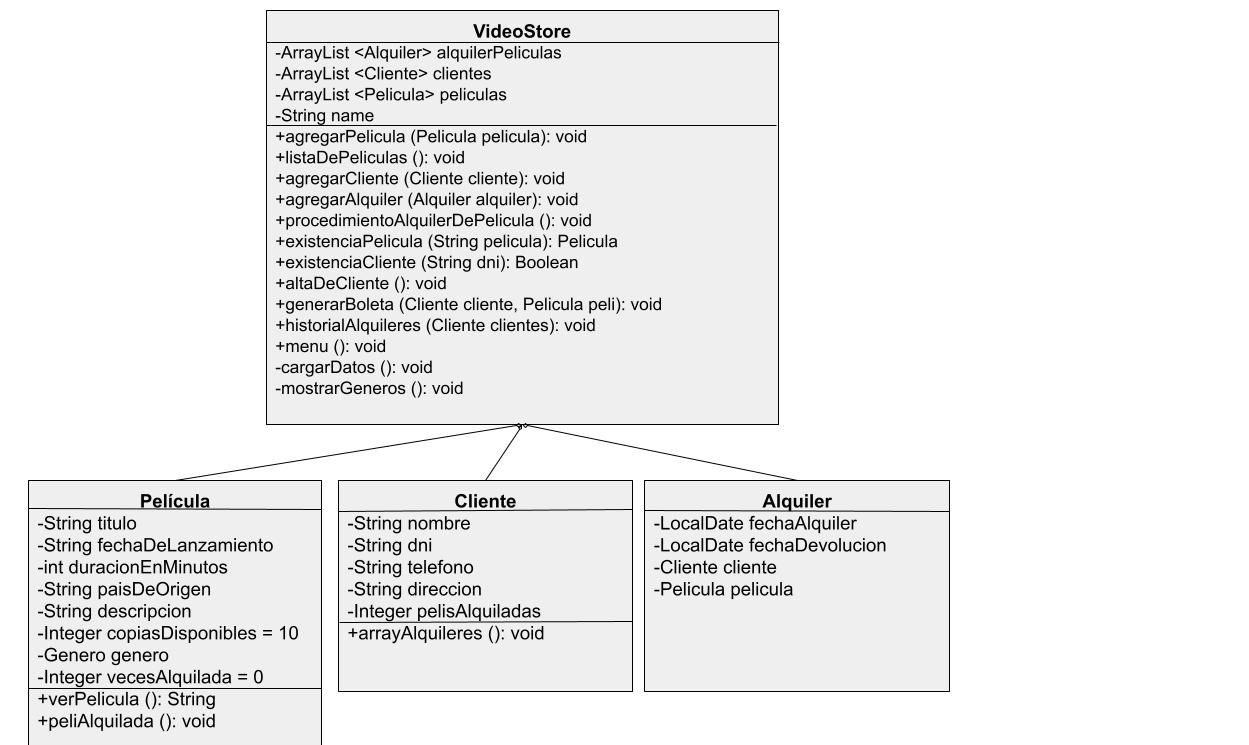
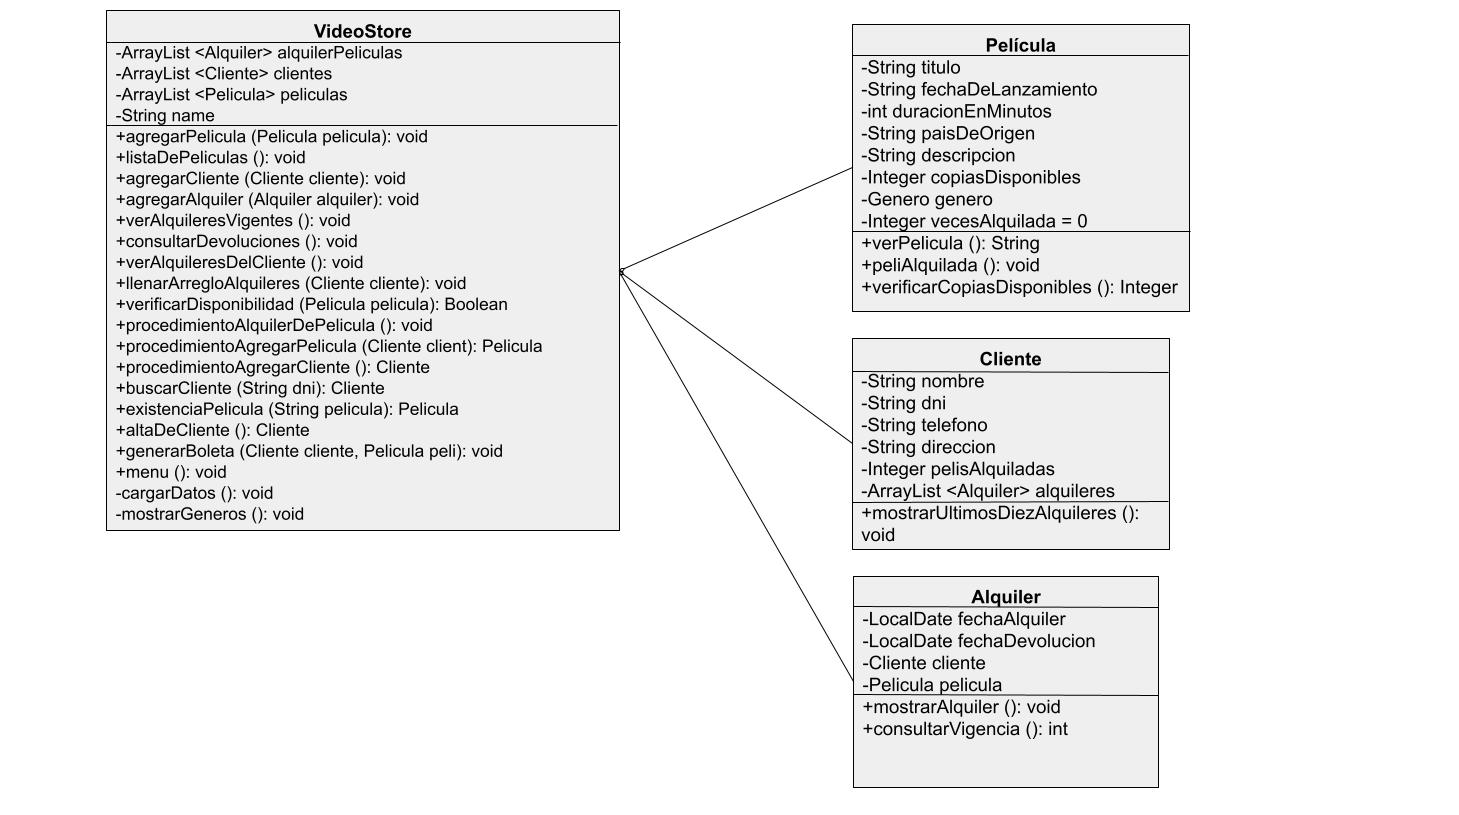
menu-uml

diff --git a/src/Core/VideoStore.java b/src/Core/VideoStore.java
@@ -92,7 +92,8 @@ public class VideoStore {
         }
     }
     
-    public void verAlquileresDelCliente (String dni){
+    public void verAlquileresDelCliente (){
+        String dni = JOptionPane.showInputDialog("Ingrese el DNI del cliente");
         Cliente cliente = buscarCliente(dni);
         if(cliente == null){
             System.out.println("No existe el cliente");
@@ -216,7 +217,7 @@ public class VideoStore {
       System.out.println("Fecha alquiler: "+formatter.format(alquiler.getFechaAlquiler())+"\n" // obtiene la fecha de alquiler
       + "Fecha devolución: "+formatter.format(alquiler.getFechaDevolucion())); // fecha de la devolucion
    }
-   
+  
    public void menu (){
       int menu;
       JOptionPane.showMessageDialog(null, """
@@ -226,16 +227,17 @@ public class VideoStore {
                                           2. Alquilar pelicula
                                           3. Ver alquileres vigentes 
                                           4. Consultar devoluciones
-                                          5. Consultar historial de un cliente""");
+                                          5. Consultar historial de un cliente
+                                          6. Ver generos""");
 
       menu = Integer.parseInt(JOptionPane.showInputDialog("Digite una opcion"));
-      String dni = JOptionPane.showInputDialog("Ingrese el DNI del cliente");
       switch (menu){
           case 1 -> this.listaDePeliculas();
           case 2 -> this.procedimientoAlquilerDePelicula();
           case 3 -> this.verAlquileresVigentes();
           case 4 -> this.consultarDevoluciones();
-          case 5 -> this.verAlquileresDelCliente(dni); 
+          case 5 -> this.verAlquileresDelCliente(); 
+          case 6 -> this.mostrarGeneros();
       }  
   }
    

diff --git a/src/Model/Pelicula.java b/src/Model/Pelicula.java
@@ -22,7 +22,7 @@ private Integer vecesAlquilada;
         this.descripcion = descripcion;
         this.copiasDisponibles = copiasDisponibles;
         this.genero = genero;
-        this.vecesAlquilada = vecesAlquilada;
+        this.vecesAlquilada = vecesAlquilada = 0;
     }
 
     public Pelicula() {
